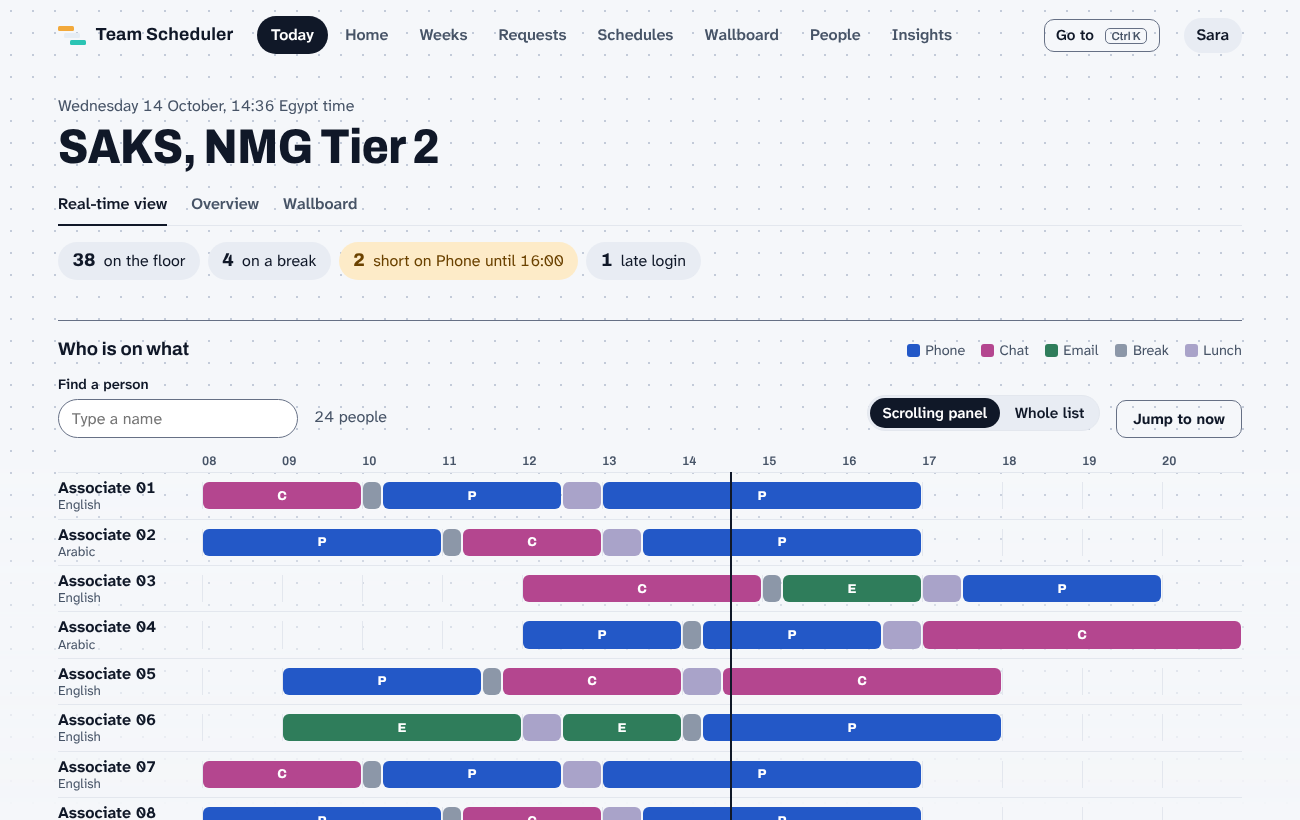
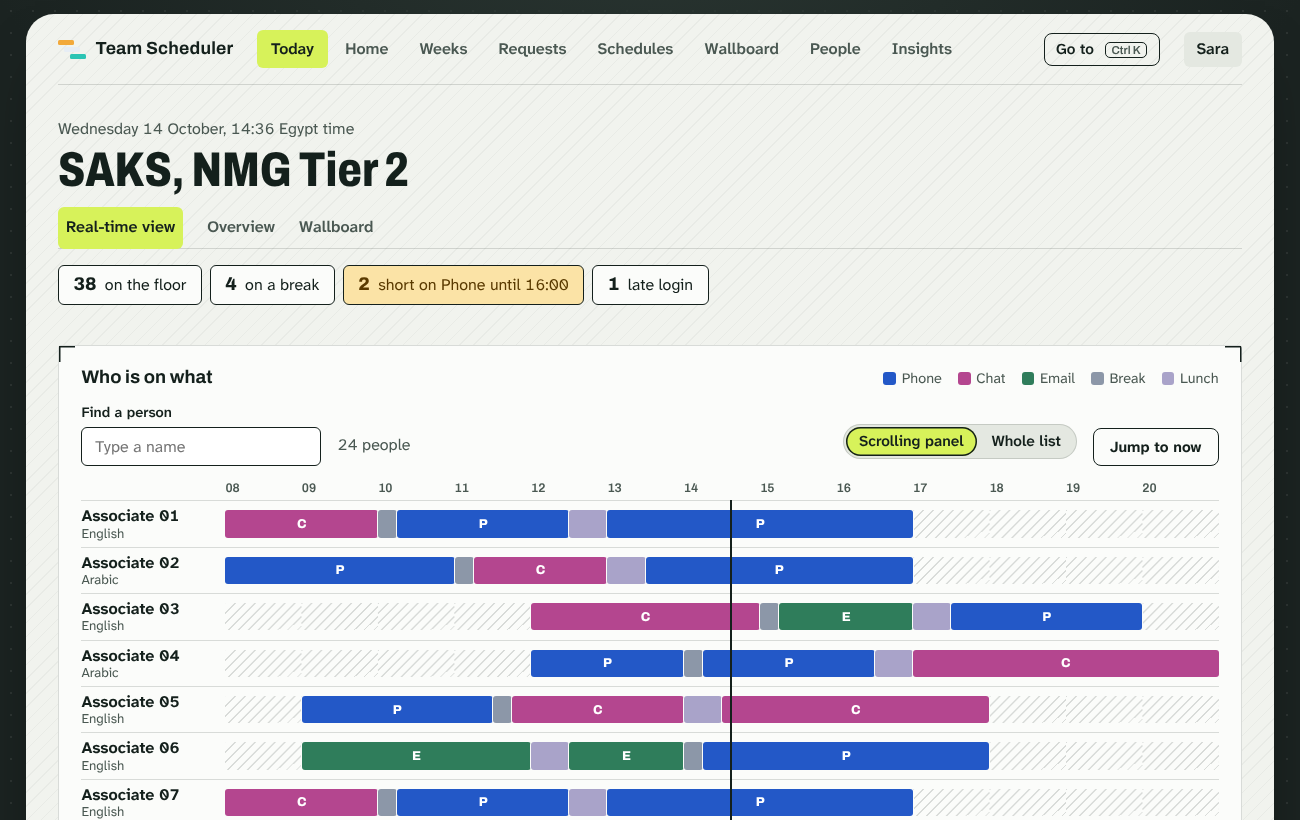
Phase AZ: look 3 redone as C Drafting table (dark field, hatched sheet, bracketed sections, highlighter accent)
Claude-Session: https://claude.ai/code/session_012jkpuBfug5TnsMSqQWAuNe

diff --git a/evidence/phase_az/prototype/proto.css b/evidence/phase_az/prototype/proto.css
@@ -294,6 +294,43 @@ body[data-look="c"] .scale.sticky { background: var(--bg); }
 .seg2 .chipbtn[aria-pressed="true"] { background: var(--action); color: var(--on-action); }
 .lanes[data-mode="whole"] { max-height: none; overflow: visible; } .lanes[data-mode="whole"] .scale.sticky { position: static; }
 
+/* ===== look 3, redone: C Drafting table. Dark outer field, one light hatched sheet with bracketed sections, a highlighter accent ===== */
+body[data-look="c"] {
+  --bg: #1B2321; --sheet: #F1F3EE; --text: #14201C; --text-dim: #4A5852; --action: #14201C; --on-action: #FFFFFF; --focus: #14201C; --hi: #D7F25A;
+  --chip: #E4E8E1; --surface: #FBFCFA; --edge: #14201C33; --rule: #14201C26; --edge-strong: #14201C; --field: #FFFFFF; --br: #14201C;
+  --lift: none; --lift-big: 0 30px 60px -30px #000A; --warn-bg: #FBE3A6; --warn-text: #5A3A00; --now: #14201C; --on-now: #FFFFFF; --changed: #D7F25A99;
+  --note-bg: #14201C; --note-text: #FFFFFF; --note-edge: #D7F25A; --note-lift: 0 16px 40px -12px #000A; --pip: #D7F25A;
+  --radius: 10px; --btn-r: 8px; --scheme: light;
+}
+body[data-look="c"] .backdrop { background: radial-gradient(60rem 30rem at 50% -10%, #2B3733 0%, transparent 70%), #1B2321; background-image: radial-gradient(60rem 30rem at 50% -10%, #2B3733 0%, transparent 70%), radial-gradient(#FFFFFF14 1px, transparent 1.2px); background-size: auto, 22px 22px; -webkit-mask-image: none; mask-image: none; }
+body[data-look="c"] .shell { background-color: var(--sheet); background-image: repeating-linear-gradient(135deg, #14201C0A 0 1px, transparent 1px 10px); border-radius: 28px; margin: 14px auto; width: calc(100% - 28px); padding-bottom: 5rem; box-shadow: var(--lift-big); }
+body[data-look="c"] .top { border-bottom: 1px solid var(--rule); margin-bottom: var(--space-2); }
+body[data-look="c"] .top nav a.on, body[data-look="c"] .tabs a.on { background: var(--hi); color: var(--text); border-radius: 6px; }
+body[data-look="c"] .tabs a.on { border-bottom-color: transparent; padding-inline: .5rem; }
+body[data-look="c"] .top nav a { border-radius: 6px; } body[data-look="c"] .who-chip { border-radius: 6px; background: var(--chip); }
+body[data-look="c"] .hero h1 { font-stretch: 78%; letter-spacing: 0; }
+body[data-look="c"] .pulse li { border-radius: 6px; background: var(--surface); border: 1.5px solid var(--edge-strong); } body[data-look="c"] .pulse .warn { background: var(--warn-bg); }
+body[data-look="c"] .card { --b: 1.5px; --l: 16px; background-color: var(--surface); border: 1px solid var(--rule); border-radius: 4px; padding: 1.3rem 1.4rem 1.4rem; margin-top: var(--space-5);
+  background-image: linear-gradient(var(--br), var(--br)), linear-gradient(var(--br), var(--br)), linear-gradient(var(--br), var(--br)), linear-gradient(var(--br), var(--br)), linear-gradient(var(--br), var(--br)), linear-gradient(var(--br), var(--br)), linear-gradient(var(--br), var(--br)), linear-gradient(var(--br), var(--br));
+  background-size: var(--l) var(--b), var(--b) var(--l), var(--l) var(--b), var(--b) var(--l), var(--l) var(--b), var(--b) var(--l), var(--l) var(--b), var(--b) var(--l);
+  background-position: left top, left top, right top, right top, left bottom, left bottom, right bottom, right bottom; background-repeat: no-repeat; }
+body[data-look="c"] .grid3 .card { margin-top: 0; }
+body[data-look="c"] .track { background-image: repeating-linear-gradient(135deg, var(--rule) 0 1px, transparent 1px 7px); border-radius: 3px; }
+body[data-look="c"] .seg { border-radius: 3px; margin: 0; box-shadow: 0 0 0 1px var(--surface); }
+body[data-look="c"] .now-line { background: var(--text); width: 2px; } body[data-look="c"] .now-line em { border-radius: 3px; background: var(--hi); color: var(--text); font-weight: 800; box-shadow: 0 0 0 1.5px var(--text); }
+body[data-look="c"] .view button:not(.ghost):not(.chipbtn):not(.x):not(.act) { box-shadow: 0 0 0 2px var(--sheet), 0 0 0 3.5px var(--action); margin: 3.5px; }
+body[data-look="c"] .btns { gap: .9rem; } body[data-look="c"] .chipbtn[aria-pressed="true"], body[data-look="c"] .seg2 .chipbtn[aria-pressed="true"] { background: var(--hi); color: var(--text); box-shadow: inset 0 0 0 1.5px var(--text); }
+body[data-look="c"] .chip.on { background: var(--hi); color: var(--text); } body[data-look="c"] .count { background: var(--hi); color: var(--text); box-shadow: 0 0 0 1.5px var(--text); }
+body[data-look="c"] .impact { border-radius: 4px; border: 1.5px solid var(--warn-text); } body[data-look="c"] .chip.warn { border-radius: 4px; }
+body[data-look="c"] input, body[data-look="c"] select { border-radius: 6px; border: 1.5px solid var(--edge-strong); } body[data-look="c"] :focus-visible { outline: 3px solid var(--text); outline-offset: 2px; box-shadow: 0 0 0 6px var(--hi); }
+body[data-look="c"] .compare .col:nth-child(2) { background: var(--changed); border-radius: 4px 4px 0 0; }
+body[data-look="c"] .wtile { border-top: 6px solid var(--covered); background: var(--surface); border-radius: 4px; }
+body[data-look="c"] .signin-card { border-radius: 8px; border: 1.5px solid var(--text); box-shadow: 10px 10px 0 var(--hi); background: var(--surface); }
+body[data-look="c"] .float-note { border-radius: 8px; border: 1.5px solid var(--hi); } body[data-look="c"] .float-note .act { background: var(--hi); color: var(--text); }
+body[data-look="c"] .scale.sticky, body[data-look="c"] .grid th { background: var(--surface); }
+body[data-look="c"] .lane.flash { animation-name: flash; }
+body[data-look="c"] .skip { background: var(--hi); color: var(--text); }
+
 /* ===== autofit: the layout follows the window (width, height, tab size) ===== */
 .shell { max-width: min(96vw, 92rem); padding-inline: clamp(.75rem, 2.5vw, 2rem); }
 :root { --label-w: clamp(5.4rem, 12vw, 9rem); }

diff --git a/evidence/phase_az/prototype/sheet/sheet-1.html b/evidence/phase_az/prototype/sheet/sheet-1.html
@@ -1,1 +1,1 @@
-<!doctype html><meta charset="utf-8"><style>body{margin:0;padding:28px;background:#ECEEF2;font:16px/1.4 system-ui,sans-serif;color:#111}.g{display:grid;grid-template-columns:repeat(3,620px);gap:28px}section{background:#fff;border-radius:14px;padding:18px;box-shadow:0 2px 12px #0002}h2{margin:0 0 12px;font-size:24px}h2 b{display:inline-grid;place-items:center;width:38px;height:38px;border-radius:50%;background:#111;color:#fff;margin-right:8px}h2 small{display:block;font-weight:400;font-size:14px;color:#555;margin-top:2px}img{width:100%;display:block;border:1px solid #0003;border-radius:8px}p{margin:6px 0 16px;color:#555;font-size:14px}</style><div class="g"><section><h2><b>1</b> A Tide<small>light, sky gradient, soft cards</small></h2><img src="a-day.png"><p>RTA, real-time view</p><img src="a-requests.png"><p>Leave and swaps</p></section><section><h2><b>2</b> B Night watch<small>navy, hairline cards</small></h2><img src="b-day.png"><p>RTA, real-time view</p><img src="b-requests.png"><p>Leave and swaps</p></section><section><h2><b>3</b> C Paper<small>cool grey, plain sections</small></h2><img src="c-day.png"><p>RTA, real-time view</p><img src="c-requests.png"><p>Leave and swaps</p></section></div>
+<!doctype html><meta charset="utf-8"><style>body{margin:0;padding:28px;background:#ECEEF2;font:16px/1.4 system-ui,sans-serif;color:#111}.g{display:grid;grid-template-columns:repeat(3,620px);gap:28px}section{background:#fff;border-radius:14px;padding:18px;box-shadow:0 2px 12px #0002}h2{margin:0 0 12px;font-size:24px}h2 b{display:inline-grid;place-items:center;width:38px;height:38px;border-radius:50%;background:#111;color:#fff;margin-right:8px}h2 small{display:block;font-weight:400;font-size:14px;color:#555;margin-top:2px}img{width:100%;display:block;border:1px solid #0003;border-radius:8px}p{margin:6px 0 16px;color:#555;font-size:14px}</style><div class="g"><section><h2><b>1</b> A Tide<small>light, sky gradient, soft cards</small></h2><img src="a-day.png"><p>RTA, real-time view</p><img src="a-requests.png"><p>Leave and swaps</p></section><section><h2><b>2</b> B Night watch<small>navy, hairline cards</small></h2><img src="b-day.png"><p>RTA, real-time view</p><img src="b-requests.png"><p>Leave and swaps</p></section><section><h2><b>3</b> C Drafting table<small>dark field, hatched sheet, highlighter</small></h2><img src="c-day.png"><p>RTA, real-time view</p><img src="c-requests.png"><p>Leave and swaps</p></section></div>

diff --git a/evidence/phase_az/prototype/shoot9.js b/evidence/phase_az/prototype/shoot9.js
@@ -1,0 +1,13 @@
+// © 2026 Omar Mokhtar. All rights reserved.
+const { chromium } = require('playwright'); const path = require('path');
+(async () => {
+  const b = await chromium.launch(); const url = 'file://' + path.resolve('index.html'); const errs = [];
+  for (const [v, w, h] of [['day',1360,900],['home',1360,900],['requests',1360,900],['signin',1360,760],['wallboard',1360,760],['week',1360,900]]) {
+    const c = await b.newContext({ viewport: { width: w, height: h } }); const p = await c.newPage(); p.on('pageerror', e => errs.push(String(e))); p.on('console', m => { if (m.type()==='error') errs.push(m.text()); });
+    await p.goto(`${url}?look=c&view=${v}`); await p.waitForTimeout(500);
+    if (v === 'day') { await p.click('[data-try]'); await p.waitForTimeout(600); }
+    await p.screenshot({ path: `shots/r7-${v}-c.png` }); await c.close(); }
+  const m = await b.newContext({ viewport: { width: 390, height: 820 }, deviceScaleFactor: 2, isMobile: true, hasTouch: true }); const p = await m.newPage();
+  await p.goto(`${url}?look=c&view=home`); await p.waitForTimeout(300); await p.screenshot({ path: 'shots/r7-home-phone-c.png' });
+  console.log('phone overflow', await p.evaluate(() => document.documentElement.scrollWidth - innerWidth), 'errors', errs); await b.close();
+})();

diff --git a/evidence/phase_az/prototype/sheet.js b/evidence/phase_az/prototype/sheet.js
@@ -1,6 +1,6 @@
 // © 2026 Omar Mokhtar. All rights reserved.
 const { chromium } = require('playwright'); const path = require('path'); const fs = require('fs');
-const LOOKS = [['a','1','Tide','light, sky gradient, soft cards'],['b','2','Night watch','navy, hairline cards'],['c','3','Paper','cool grey, plain sections'],
+const LOOKS = [['a','1','Tide','light, sky gradient, soft cards'],['b','2','Night watch','navy, hairline cards'],['c','3','Drafting table','dark field, hatched sheet, highlighter'],
                ['d','4','Meadow','friendly, sage and green'],['e','5','Ink','white, black frames, square'],['f','6','Dusk','warm dark, peach action']];
 (async () => {
   const b = await chromium.launch(); const url = 'file://' + path.resolve('index.html');

diff --git a/evidence/phase_az/prototype/index.html b/evidence/phase_az/prototype/index.html
@@ -16,7 +16,7 @@
   <div class="group" role="group" aria-label="Look">
     <button type="button" data-look-pick="a" aria-pressed="true">A Tide</button>
     <button type="button" data-look-pick="b" aria-pressed="false">B Night watch</button>
-    <button type="button" data-look-pick="c" aria-pressed="false">C Paper</button>
+    <button type="button" data-look-pick="c" aria-pressed="false">C Drafting table</button>
     <button type="button" data-look-pick="d" aria-pressed="false">D Meadow</button>
     <button type="button" data-look-pick="e" aria-pressed="false">E Ink</button>
     <button type="button" data-look-pick="f" aria-pressed="false">F Dusk</button>

diff --git a/evidence/phase_az/prototype/build_proto.py b/evidence/phase_az/prototype/build_proto.py
@@ -173,7 +173,7 @@ def page():
   <div class="group" role="group" aria-label="Look">
     <button type="button" data-look-pick="a" aria-pressed="true">A Tide</button>
     <button type="button" data-look-pick="b" aria-pressed="false">B Night watch</button>
-    <button type="button" data-look-pick="c" aria-pressed="false">C Paper</button>
+    <button type="button" data-look-pick="c" aria-pressed="false">C Drafting table</button>
     <button type="button" data-look-pick="d" aria-pressed="false">D Meadow</button>
     <button type="button" data-look-pick="e" aria-pressed="false">E Ink</button>
     <button type="button" data-look-pick="f" aria-pressed="false">F Dusk</button>
@@ -551,6 +551,43 @@ body[data-look="c"] .scale.sticky { background: var(--bg); }
 .seg2 { display: inline-flex; gap: 2px; padding: 2px; border-radius: 999px; background: var(--chip); border: 1px solid var(--rule); margin-bottom: .45rem; } .seg2 .chipbtn { border: 0; background: transparent; padding: .3rem .8rem; }
 .seg2 .chipbtn[aria-pressed="true"] { background: var(--action); color: var(--on-action); }
 .lanes[data-mode="whole"] { max-height: none; overflow: visible; } .lanes[data-mode="whole"] .scale.sticky { position: static; }
+
+/* ===== look 3, redone: C Drafting table. Dark outer field, one light hatched sheet with bracketed sections, a highlighter accent ===== */
+body[data-look="c"] {
+  --bg: #1B2321; --sheet: #F1F3EE; --text: #14201C; --text-dim: #4A5852; --action: #14201C; --on-action: #FFFFFF; --focus: #14201C; --hi: #D7F25A;
+  --chip: #E4E8E1; --surface: #FBFCFA; --edge: #14201C33; --rule: #14201C26; --edge-strong: #14201C; --field: #FFFFFF; --br: #14201C;
+  --lift: none; --lift-big: 0 30px 60px -30px #000A; --warn-bg: #FBE3A6; --warn-text: #5A3A00; --now: #14201C; --on-now: #FFFFFF; --changed: #D7F25A99;
+  --note-bg: #14201C; --note-text: #FFFFFF; --note-edge: #D7F25A; --note-lift: 0 16px 40px -12px #000A; --pip: #D7F25A;
+  --radius: 10px; --btn-r: 8px; --scheme: light;
+}
+body[data-look="c"] .backdrop { background: radial-gradient(60rem 30rem at 50% -10%, #2B3733 0%, transparent 70%), #1B2321; background-image: radial-gradient(60rem 30rem at 50% -10%, #2B3733 0%, transparent 70%), radial-gradient(#FFFFFF14 1px, transparent 1.2px); background-size: auto, 22px 22px; -webkit-mask-image: none; mask-image: none; }
+body[data-look="c"] .shell { background-color: var(--sheet); background-image: repeating-linear-gradient(135deg, #14201C0A 0 1px, transparent 1px 10px); border-radius: 28px; margin: 14px auto; width: calc(100% - 28px); padding-bottom: 5rem; box-shadow: var(--lift-big); }
+body[data-look="c"] .top { border-bottom: 1px solid var(--rule); margin-bottom: var(--space-2); }
+body[data-look="c"] .top nav a.on, body[data-look="c"] .tabs a.on { background: var(--hi); color: var(--text); border-radius: 6px; }
+body[data-look="c"] .tabs a.on { border-bottom-color: transparent; padding-inline: .5rem; }
+body[data-look="c"] .top nav a { border-radius: 6px; } body[data-look="c"] .who-chip { border-radius: 6px; background: var(--chip); }
+body[data-look="c"] .hero h1 { font-stretch: 78%; letter-spacing: 0; }
+body[data-look="c"] .pulse li { border-radius: 6px; background: var(--surface); border: 1.5px solid var(--edge-strong); } body[data-look="c"] .pulse .warn { background: var(--warn-bg); }
+body[data-look="c"] .card { --b: 1.5px; --l: 16px; background-color: var(--surface); border: 1px solid var(--rule); border-radius: 4px; padding: 1.3rem 1.4rem 1.4rem; margin-top: var(--space-5);
+  background-image: linear-gradient(var(--br), var(--br)), linear-gradient(var(--br), var(--br)), linear-gradient(var(--br), var(--br)), linear-gradient(var(--br), var(--br)), linear-gradient(var(--br), var(--br)), linear-gradient(var(--br), var(--br)), linear-gradient(var(--br), var(--br)), linear-gradient(var(--br), var(--br));
+  background-size: var(--l) var(--b), var(--b) var(--l), var(--l) var(--b), var(--b) var(--l), var(--l) var(--b), var(--b) var(--l), var(--l) var(--b), var(--b) var(--l);
+  background-position: left top, left top, right top, right top, left bottom, left bottom, right bottom, right bottom; background-repeat: no-repeat; }
+body[data-look="c"] .grid3 .card { margin-top: 0; }
+body[data-look="c"] .track { background-image: repeating-linear-gradient(135deg, var(--rule) 0 1px, transparent 1px 7px); border-radius: 3px; }
+body[data-look="c"] .seg { border-radius: 3px; margin: 0; box-shadow: 0 0 0 1px var(--surface); }
+body[data-look="c"] .now-line { background: var(--text); width: 2px; } body[data-look="c"] .now-line em { border-radius: 3px; background: var(--hi); color: var(--text); font-weight: 800; box-shadow: 0 0 0 1.5px var(--text); }
+body[data-look="c"] .view button:not(.ghost):not(.chipbtn):not(.x):not(.act) { box-shadow: 0 0 0 2px var(--sheet), 0 0 0 3.5px var(--action); margin: 3.5px; }
+body[data-look="c"] .btns { gap: .9rem; } body[data-look="c"] .chipbtn[aria-pressed="true"], body[data-look="c"] .seg2 .chipbtn[aria-pressed="true"] { background: var(--hi); color: var(--text); box-shadow: inset 0 0 0 1.5px var(--text); }
+body[data-look="c"] .chip.on { background: var(--hi); color: var(--text); } body[data-look="c"] .count { background: var(--hi); color: var(--text); box-shadow: 0 0 0 1.5px var(--text); }
+body[data-look="c"] .impact { border-radius: 4px; border: 1.5px solid var(--warn-text); } body[data-look="c"] .chip.warn { border-radius: 4px; }
+body[data-look="c"] input, body[data-look="c"] select { border-radius: 6px; border: 1.5px solid var(--edge-strong); } body[data-look="c"] :focus-visible { outline: 3px solid var(--text); outline-offset: 2px; box-shadow: 0 0 0 6px var(--hi); }
+body[data-look="c"] .compare .col:nth-child(2) { background: var(--changed); border-radius: 4px 4px 0 0; }
+body[data-look="c"] .wtile { border-top: 6px solid var(--covered); background: var(--surface); border-radius: 4px; }
+body[data-look="c"] .signin-card { border-radius: 8px; border: 1.5px solid var(--text); box-shadow: 10px 10px 0 var(--hi); background: var(--surface); }
+body[data-look="c"] .float-note { border-radius: 8px; border: 1.5px solid var(--hi); } body[data-look="c"] .float-note .act { background: var(--hi); color: var(--text); }
+body[data-look="c"] .scale.sticky, body[data-look="c"] .grid th { background: var(--surface); }
+body[data-look="c"] .lane.flash { animation-name: flash; }
+body[data-look="c"] .skip { background: var(--hi); color: var(--text); }
 
 /* ===== autofit: the layout follows the window (width, height, tab size) ===== */
 .shell { max-width: min(96vw, 92rem); padding-inline: clamp(.75rem, 2.5vw, 2rem); }

diff --git a/evidence/phase_az/SUGGESTIONS.md b/evidence/phase_az/SUGGESTIONS.md
@@ -30,8 +30,7 @@ channel colours, routes, form field names, test selectors, CSRF and sign-in beha
 
 ## 2. The system (shared by all three looks; prototype in `prototype/`)
 
-- **Looks.** A Tide (light, sky gradient, soft cards), B Night watch (navy, hairline cards, dotted top glow), C Paper (cool grey, no card
-  fill, hairline rules, 8 px radius). One token set; the look is a `data-look` attribute (kept in the existing `theme` cookie). Today's
+- **Looks.** A Tide (light, sky gradient, soft cards), B Night watch (navy, hairline cards, dotted top glow), C Drafting table (see 2d). One token set; the look is a `data-look` attribute (kept in the existing `theme` cookie). Today's
   three looks (Graphite night, Day, Deep ocean) map to B, A and a deeper B; Paper (C) is new.
 - **Colour means state.** Covered teal, short amber, gap red, over violet, always paired with a word or icon (never colour alone). Over-staffed
   becomes a quiet tint (not a solid block), so gaps and shortfalls are the only loud colours. Actions are ink (dark in A and C, light in B).
@@ -88,6 +87,18 @@ Read as: three more looks after A, B and C. If you meant something else by "4, 5
   grids; the RTA scroll panel's height follows the window (`100dvh` minus the header, 15 to 46 rem); paged tables compute rows per page from
   the window height and re-fit on resize (20 rows at 2560x1300, 15 at 1920x1080, 8 at 1366x768, 5 at 360x640); the hour label column and
   headings scale with the width. Tested at 2560x1300, 1920x1080, 1366x768, 1024x700, 820x1180, 600x900, 390x844 and 360x640: no sideways scroll at any size.
+
+
+## 2d. Look 3 redone: C Drafting table (owner, 2026-10-25: "be more creative")
+
+The old Paper look was a grey version of the others. The new one changes the structure, not just the colour:
+- A dark charcoal-green field with one light, finely hatched "sheet" (28 px radius) that holds the whole app.
+- Sections are bracketed like a drawing: four corner marks on every card instead of a box or a shadow.
+- Off-shift time on the timeline is hatched, so empty time reads as "not working" without extra colour.
+- One accent: a highlighter yellow-green (`#D7F25A`, ink on it 14:1) for the active tab, the "Now" flag, counts, the selected option and the focus halo. It never carries a status, so it cannot be mistaken for covered, short, gap or over.
+- Primary buttons are stamped (an offset ring), the sign-in card has a hard offset shadow in the highlighter colour, the floating note is an ink chip with a highlighter edge.
+- Condensed Archivo headings; status colours, channel colours and routes unchanged.
+Found while testing it: large teal numbers (`+1:45` on the wallboard) measure 2.5:1 on light surfaces in every light look, below the 3:1 for large text. The build uses a darker teal for text (`#0B7F73`, 5:1) and keeps the bright teal for fills.
 
 ## 3. Page by page
 
